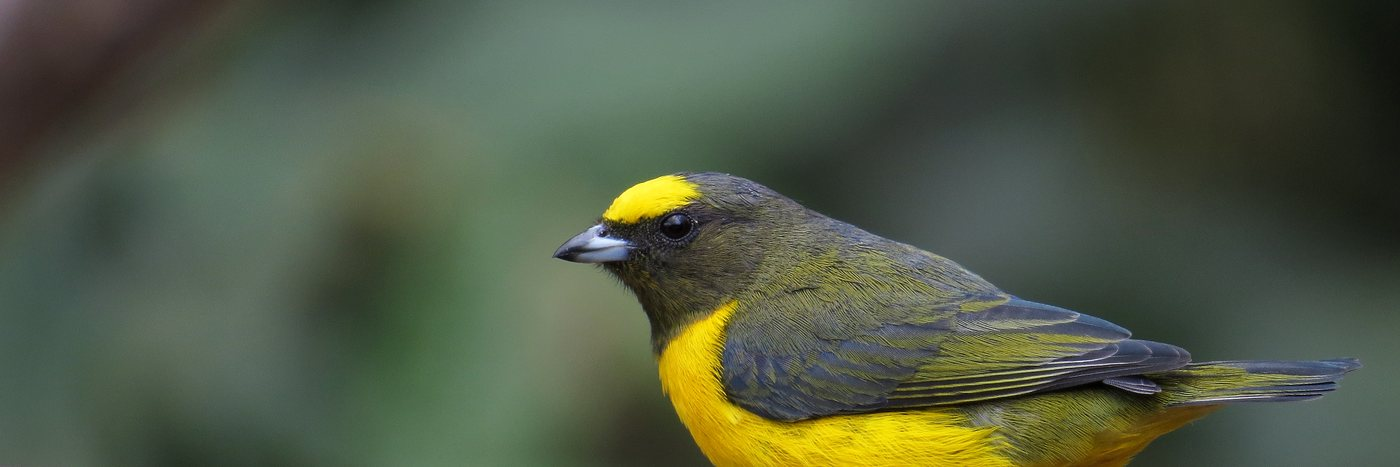
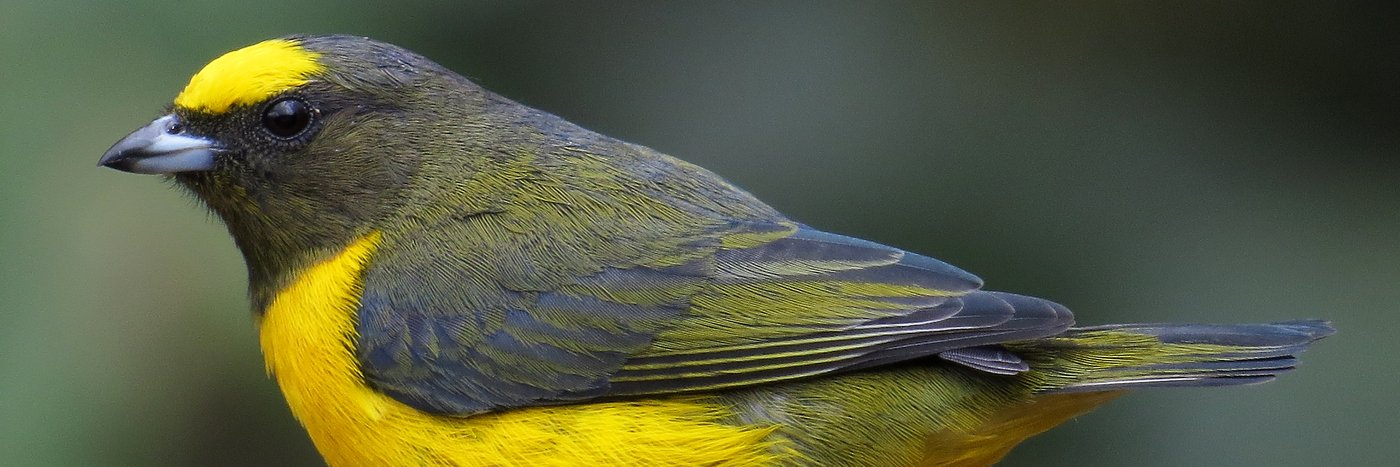
Add files via upload

diff --git a/styles.css b/styles.css
@@ -107,7 +107,7 @@ a { color: var(--navy); }
 .ad-mid { margin: 24px 0; height: 190px; }        /* anúncio: height: 100px; */
 .ad-side {
   width: 300px;
-  min-height: 450px; /* anúncio: min-height: 600px; */
+  min-height: 400px; /* anúncio: min-height: 600px; */
   flex-shrink: 0;
   align-self: flex-start;
   position: sticky;
